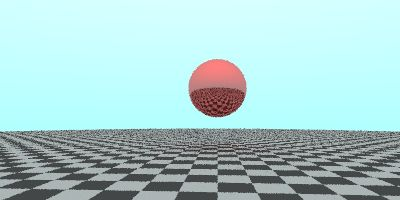
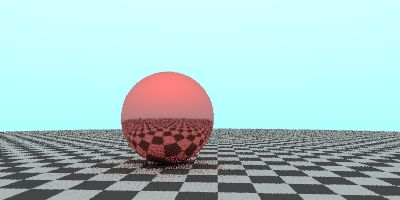
frames generated
calculated the distance between initial point and final point (translation) and divided into segments depending on the number of frames defined

diff --git a/YOPyRaNG/world.py b/YOPyRaNG/world.py
@@ -58,7 +58,7 @@ class world:
                 if("animation" in e):
                     anim = animation()
                     if('translate' in e['animation']):
-                        anim.translate = e['animation']['translate']
+                        anim.translate = vector(*tuple(e['animation']['translate']))
                     if('rotate' in e['animation']):
                         anim.rotate = e['animation']['rotate']
                     if('scale' in e['animation']):
@@ -107,7 +107,7 @@ class world:
         if(found == 0): YA.FRAMES = 1
 
     def hit(self, r):
-        p = None; n = None; d = YA.INFINITE; nearestobj = None;
+        p = None; n = None; d = YA.INFINITE; nearestobj = None
         for obj in self.objects:
             obj_hitted, obj_p, obj_n = obj.hit(r)
             if (obj_hitted):
@@ -124,4 +124,4 @@ class world:
         if frame > 0:
             for o in self.objects:
                 if o.animation != None:
-                    o.position = vector(*tuple(o.animation.translate))
+                    o.position = o.animation.calculate_t(o.position)

diff --git a/YOPyRaNG/animation.py b/YOPyRaNG/animation.py
@@ -1,4 +1,5 @@
 import auxfunct as YA
+from vector import *
 
 class animation:
     def __init__(self, translate=None, rotate=None, scale=None):
@@ -7,5 +8,9 @@ class animation:
         self.scale = scale
 
 
-    def calculate_t(self):
-        print(YA.FRAMES)
+    def calculate_t(self,position):
+        frames = YA.FRAMES - 1 
+        substraction = self.translate - position
+        factor = vector(substraction.x/frames,substraction.y/frames,substraction.z/frames)
+
+        return position + factor
